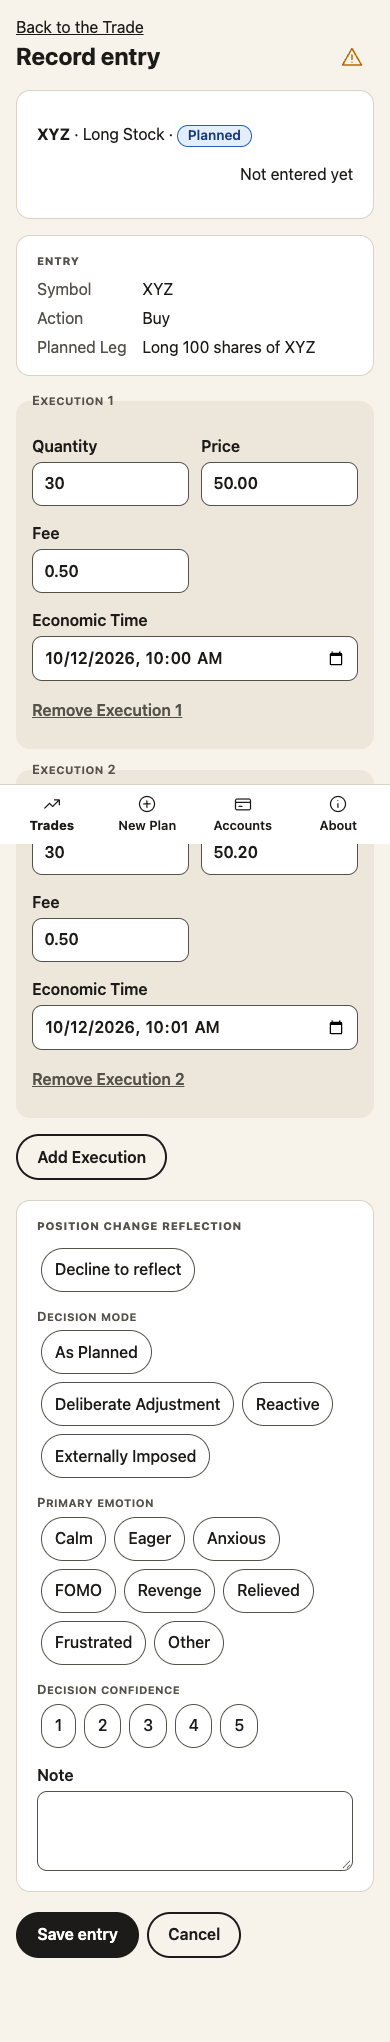
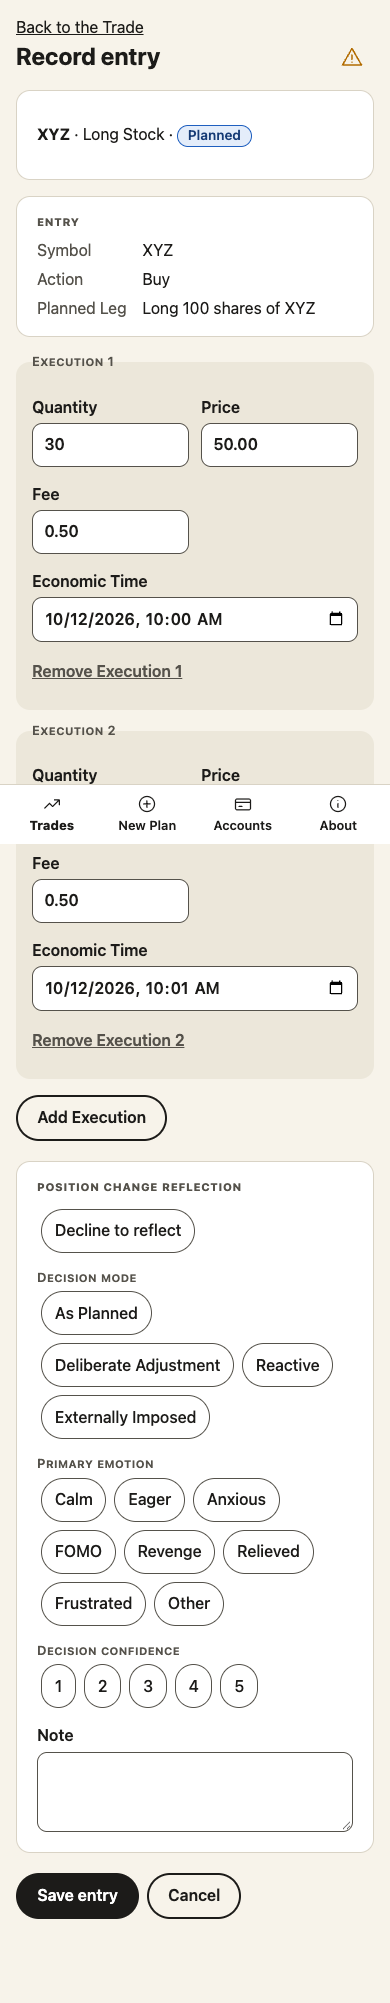
feat(ui): T2.63 Record entry context without "Not entered yet" and R lines below amounts
Claude-Session: https://claude.ai/code/session_0115bntoBTHkkC72fZTEU7bt

diff --git a/src/ui/screens/PositionChangeForm.test.tsx b/src/ui/screens/PositionChangeForm.test.tsx
@@ -316,9 +316,9 @@ describe('submission', () => {
     const entryQuality = within(receipt).getByRole('region', { name: 'Entry Quality' });
     expect(within(entryQuality).getAllByRole('definition').map((dd) => dd.textContent)).toEqual([
       '$50.18',
-      '$270.00 (1.08R)',
+      '$270.00 1.08R',
       '$580.00',
-      '2.15 (planned 2.4)',
+      '2.15 planned 2.4',
       '$18.00',
     ]);
     expect(within(receipt).getByText('Entry Size Deviation: 20 shares above plan, caused by this Position Change.')).toBeTruthy();
@@ -1111,18 +1111,20 @@ describe('Record entry issues', () => {
 });
 
 describe('entry context', () => {
-  it('should show the Trades symbol, Strategy, stored lifecycle, and 60 of 100 shares entered or Not entered yet above the form', async () => {
+  it('should show the Trades symbol, Strategy, and stored lifecycle above the form, and not show Not entered yet when nothing has been entered', async () => {
     const planned = renderForm();
     const context = await screen.findByRole('region', { name: 'Trade' });
     expect(within(context).getByText('XYZ')).toBeTruthy();
     expect(within(context).getByText('Long Stock')).toBeTruthy();
     expect(within(context).getByText('Planned')).toBeTruthy();
-    expect(within(context).getByText('Not entered yet')).toBeTruthy();
+    expect(within(context).queryByText('Not entered yet')).toBeNull();
+    expect(context.querySelectorAll('p').length).toBe(1);
     const form = screen.getByRole('group', { name: 'Execution 1' });
     expect(context.compareDocumentPosition(form) & Node.DOCUMENT_POSITION_FOLLOWING).toBeTruthy();
     expect(planned.TradeWorkflows.recordPositionChange).not.toHaveBeenCalled();
-    cleanup();
+  });
 
+  it('should still show 60 of 100 shares entered once some quantity is entered', async () => {
     const facade = positionChangeFormFacade();
     vi.mocked(facade.TradeViewsAndReporting.getTradeDetail).mockResolvedValue({
       kind: 'Ready',
@@ -1146,5 +1148,44 @@ describe('entry context', () => {
     await user.click(link);
     expect(await screen.findByText('Trade Detail route')).toBeTruthy();
     expect(facade.TradeWorkflows.recordPositionChange).not.toHaveBeenCalled();
+  });
+});
+
+describe('R lines', () => {
+  async function receiptEntryQuality() {
+    const facade = renderForm();
+    vi.mocked(facade.TradeWorkflows.recordPositionChange).mockResolvedValue(recordedResult());
+    const user = userEvent.setup();
+    await fillRows(user, [['20', '51.00', '1.00', '2026-10-12T14:00']]);
+    await completeReflection(user);
+    await user.click(screen.getByRole('button', { name: 'Save entry' }));
+    const receipt = await screen.findByRole('region', { name: 'Entry recorded' });
+    return within(receipt).getByRole('region', { name: 'Entry Quality' });
+  }
+  const valueOf = (region: HTMLElement, term: string) => within(region).getByText(term, { selector: 'dt' }).nextElementSibling as HTMLElement;
+
+  it('should put the R multiple on its own line below Actual initial risk on the receipt and in Entry Quality', async () => {
+    const value = valueOf(await receiptEntryQuality(), 'Actual initial risk');
+    const [amount, second] = Array.from(value.children) as HTMLElement[];
+    expect(amount!.textContent).toBe('$270.00');
+    expect(second!.textContent).toBe('1.08R');
+    expect(second!.className).toContain('second-line');
+    expect(value.textContent).not.toMatch(/[()]/);
+  });
+
+  it('should put planned 2.4 on its own line below the Reward : risk value on the receipt and in Entry Quality', async () => {
+    const value = valueOf(await receiptEntryQuality(), 'Reward : risk');
+    const [amount, second] = Array.from(value.children) as HTMLElement[];
+    expect(amount!.textContent).toBe('2.15');
+    expect(second!.textContent).toBe('planned 2.4');
+    expect(second!.className).toContain('second-line');
+    expect(value.textContent).not.toMatch(/[()]/);
+  });
+
+  it('should keep the amount and its second line in one value cell, read in order', async () => {
+    const quality = await receiptEntryQuality();
+    expect(valueOf(quality, 'Actual initial risk').textContent).toBe('$270.00 1.08R');
+    expect(valueOf(quality, 'Reward : risk').textContent).toBe('2.15 planned 2.4');
+    expect(within(quality).getAllByRole('definition')).toHaveLength(5);
   });
 });

diff --git a/src/ui/screens/TradeDetail.test.tsx b/src/ui/screens/TradeDetail.test.tsx
@@ -152,9 +152,9 @@ describe('Open Trade Detail', () => {
     });
     expect(termValue(quality, 'Resolved at')).toBe('Position Change at 2026-10-12 11:00');
     expect(termValue(quality, 'Average entry')).toBe('$50.18');
-    expect(termValue(quality, 'Actual initial risk')).toBe('$270.00 (1.08R)');
+    expect(termValue(quality, 'Actual initial risk')).toBe('$270.00 1.08R');
     expect(termValue(quality, 'Actual initial reward')).toBe('$580.00');
-    expect(termValue(quality, 'Reward : risk')).toBe('2.15 (planned 2.4)');
+    expect(termValue(quality, 'Reward : risk')).toBe('2.15 planned 2.4');
     expect(termValue(quality, 'Slippage')).toBe('$18.00');
     expect(termValue(quality, 'Size')).toBe('1× planned quantity');
     expect(within(quality).getByText('$50.18').className).toContain('number');
@@ -166,7 +166,7 @@ describe('Open Trade Detail', () => {
     const flagged = await screen.findByRole('region', {
       name: 'Entry Quality',
     });
-    expect(termValue(flagged, 'Reward : risk')).toBe('Not applicable: entry at or beyond the Stop (planned 2.4)');
+    expect(termValue(flagged, 'Reward : risk')).toBe('Not applicable: entry at or beyond the Stop planned 2.4');
   });
 
   it('should show Planned-Leg Fulfillment and each Entry Size Deviation with its quantity and causing Position Change', async () => {
@@ -659,5 +659,37 @@ describe('Journal entries', () => {
   it('should label the region with the number of items', async () => {
     renderView(openDetailOf([PC1, PC2], { journal: [planEntry, pc1Reflection, pc2Decline] }));
     expect(await screen.findByRole('region', { name: 'Journal (3)' })).toBeTruthy();
+  });
+});
+
+describe('R lines', () => {
+  async function detailEntryQuality() {
+    renderView(openDetailOf([PC1, PC2]));
+    return screen.findByRole('region', { name: 'Entry Quality' });
+  }
+  const valueOf = (region: HTMLElement, term: string) => within(region).getByText(term, { selector: 'dt' }).nextElementSibling as HTMLElement;
+
+  it('should put the R multiple on its own line below Actual initial risk on the receipt and in Entry Quality', async () => {
+    const value = valueOf(await detailEntryQuality(), 'Actual initial risk');
+    const [amount, second] = Array.from(value.children) as HTMLElement[];
+    expect(amount!.textContent).toBe('$270.00');
+    expect(second!.textContent).toBe('1.08R');
+    expect(second!.className).toContain('second-line');
+    expect(value.textContent).not.toMatch(/[()]/);
+  });
+
+  it('should put planned 2.4 on its own line below the Reward : risk value on the receipt and in Entry Quality', async () => {
+    const value = valueOf(await detailEntryQuality(), 'Reward : risk');
+    const [amount, second] = Array.from(value.children) as HTMLElement[];
+    expect(amount!.textContent).toBe('2.15');
+    expect(second!.textContent).toBe('planned 2.4');
+    expect(second!.className).toContain('second-line');
+    expect(value.textContent).not.toMatch(/[()]/);
+  });
+
+  it('should keep the amount and its second line in one value cell, read in order', async () => {
+    const quality = await detailEntryQuality();
+    expect(valueOf(quality, 'Actual initial risk').textContent).toBe('$270.00 1.08R');
+    expect(valueOf(quality, 'Reward : risk').textContent).toBe('2.15 planned 2.4');
   });
 });

diff --git a/src/ui/screens/TradeDetail.tsx b/src/ui/screens/TradeDetail.tsx
@@ -1,4 +1,4 @@
-import { useCallback, useEffect, useState } from 'react';
+import { useCallback, useEffect, useState, type ReactNode } from 'react';
 import { Link, useLocation, useParams } from 'react-router';
 import type { UiFacade } from '../../app/compose.ts';
 import type {
@@ -17,6 +17,7 @@ import type {
 import { Rational } from '../../domain/values/index.ts';
 import { PageTitle } from '../PageTitle.tsx';
 import { Badge } from '../Badge.tsx';
+import { WithSecondLine } from '../SecondLine.tsx';
 import { decimalMoney as price, localTime, money, netCost, quantity, ratio, rMultiple, tradeSummary } from '../format.ts';
 import { BackIcon, ChevronIcon } from '../icons.tsx';
 import { useRuntime } from '../runtime.tsx';
@@ -179,7 +180,7 @@ export function TradeDetail({ facade, timeZone }: TradeDetailProps) {
 }
 
 // One label and value in a figure grid; a row never grows wider than its cap (app.css).
-function Figure({ term, plain, tone, children }: { readonly term: string; readonly plain?: boolean; readonly tone?: 'stop' | 'target'; readonly children: string }) {
+function Figure({ term, plain, tone, children }: { readonly term: string; readonly plain?: boolean; readonly tone?: 'stop' | 'target'; readonly children: ReactNode }) {
   return (
     <div>
       <dt className={tone && `${tone}-label`}>{term}</dt>
@@ -633,9 +634,9 @@ function EntryQualitySection({ view, timeZone }: { readonly view: OpenTradeDetai
             {resolvedAt ? `Position Change at ${localTime(resolvedAt.economicTime, timeZone)}` : ''}
           </Figure>
           <Figure term="Average entry">{shown(quality.value.averageEntry, money)}</Figure>
-          <Figure term="Actual initial risk">{`${shown(quality.value.actualInitialRisk, money)} (${shown(quality.value.riskInPlanR, rMultiple)})`}</Figure>
+          <Figure term="Actual initial risk"><WithSecondLine amount={shown(quality.value.actualInitialRisk, money)} second={shown(quality.value.riskInPlanR, rMultiple)} /></Figure>
           <Figure term="Actual initial reward">{shown(quality.value.actualInitialReward, money)}</Figure>
-          <Figure term="Reward : risk">{`${shown(quality.value.actualRewardRisk, ratio)} (planned ${shown(quality.value.plannedRewardRisk, ratio)})`}</Figure>
+          <Figure term="Reward : risk"><WithSecondLine amount={shown(quality.value.actualRewardRisk, ratio)} second={`planned ${shown(quality.value.plannedRewardRisk, ratio)}`} /></Figure>
           <Figure term="Slippage">{shown(quality.value.slippage, money)}</Figure>
           <Figure term="Size">{`${shown(quality.value.sizeRatio, ratio)}× planned quantity`}</Figure>
         </dl>

diff --git a/e2e/d2/ui-alignment.spec.ts b/e2e/d2/ui-alignment.spec.ts
@@ -1664,3 +1664,47 @@ test.describe('T2.62 line breaks', () => {
     await context.close();
   });
 });
+
+test.describe('T2.63 R lines', () => {
+  async function expectSecondLinesBelow(entryQuality: Locator, page: Page, where: string, width: number): Promise<void> {
+    for (const [term, second] of [['Actual initial risk', '1.08R'], ['Reward : risk', 'planned 2.4']] as const) {
+      const value = entryQuality.locator('dt', { hasText: term }).locator('xpath=following-sibling::dd[1]');
+      const parts = await value.evaluate((dd) =>
+        Array.from(dd.children).map((el) => {
+          const box = el.getBoundingClientRect();
+          return { text: el.textContent ?? '', top: box.top, bottom: box.bottom };
+        }),
+      );
+      const [amount, line] = parts;
+      expect(line?.text, `${where} ${term} second line at ${width}`).toBe(second);
+      expect(line!.top, `${where} ${term} second line top at ${width}`).toBeGreaterThanOrEqual(amount!.bottom - 0.5);
+    }
+    expect(await page.evaluate(() => document.documentElement.scrollWidth - document.documentElement.clientWidth), `${where} overflow at ${width}`).toBeLessThanOrEqual(0);
+  }
+
+  test('should put the second line at or below the amount on the receipt and in Entry Quality at 320 and 1280', async ({ server, profile }) => {
+    void server;
+    const context = await profile.launch();
+    const page = await onboardedPage(context);
+    await confirmReference(page);
+    await recordEntry(page, PC1);
+    await backToTrade(page);
+    await recordEntry(page, PC2, { decline: true });
+    const receipt = page.getByRole('region', { name: 'Entry recorded', exact: true }).getByRole('region', { name: 'Entry Quality', exact: true });
+    await expect(receipt).toBeVisible(READY);
+    for (const width of [320, 1280]) {
+      await page.setViewportSize({ width, height: 900 });
+      await expectLayout(page, width);
+      await expectSecondLinesBelow(receipt, page, 'receipt', width);
+    }
+    await backToTrade(page);
+    const detail = page.getByRole('region', { name: 'Entry Quality', exact: true });
+    await expect(detail).toBeVisible(READY);
+    for (const width of [320, 1280]) {
+      await page.setViewportSize({ width, height: 900 });
+      await expectLayout(page, width);
+      await expectSecondLinesBelow(detail, page, 'Detail', width);
+    }
+    await context.close();
+  });
+});

diff --git a/src/ui/screens/PositionChangeReceipt.tsx b/src/ui/screens/PositionChangeReceipt.tsx
@@ -1,5 +1,6 @@
 import { useEffect, useRef } from 'react';
 import { PageTitle } from '../PageTitle.tsx';
+import { WithSecondLine } from '../SecondLine.tsx';
 import { Link } from 'react-router';
 import type { IntegrityFinding, PositionChangeResult } from '../../app/types.ts';
 import { decimalMoney as price, localTime, money, ratio, rMultiple } from '../format.ts';
@@ -84,11 +85,11 @@ export function PositionChangeReceipt({ result, timeZone }: PositionChangeReceip
             <dt>Average entry</dt>
             <dd className="number">{shown(figures.averageEntry, money)}</dd>
             <dt>Actual initial risk</dt>
-            <dd className="number">{`${shown(figures.actualInitialRisk, money)} (${shown(figures.riskInPlanR, rMultiple)})`}</dd>
+            <dd className="number"><WithSecondLine amount={shown(figures.actualInitialRisk, money)} second={shown(figures.riskInPlanR, rMultiple)} /></dd>
             <dt>Actual initial reward</dt>
             <dd className="number">{shown(figures.actualInitialReward, money)}</dd>
             <dt>Reward : risk</dt>
-            <dd className="number">{`${shown(figures.actualRewardRisk, ratio)} (planned ${shown(figures.plannedRewardRisk, ratio)})`}</dd>
+            <dd className="number"><WithSecondLine amount={shown(figures.actualRewardRisk, ratio)} second={`planned ${shown(figures.plannedRewardRisk, ratio)}`} /></dd>
             <dt>Slippage</dt>
             <dd className="number">{shown(figures.slippage, money)}</dd>
           </dl>

diff --git a/e2e/d2/offline.spec.ts b/e2e/d2/offline.spec.ts
@@ -31,7 +31,7 @@ test.describe('B2.8 offline cold restart', () => {
     await expect(page.getByRole('region', { name: /Read only/ })).toHaveCount(0);
     await recordEntry(page, PC2);
     await backToTrade(page);
-    await expect(region(page, 'Entry Quality')).toContainText('$270.00 (1.08R)');
+    await expect(region(page, 'Entry Quality')).toContainText('$270.00 1.08R');
     await offline.close();
 
     const again = await profile.launch({ offline: true });
@@ -42,7 +42,7 @@ test.describe('B2.8 offline cold restart', () => {
     await expect(region(reopened, 'Executions (3)').getByRole('button')).toHaveCount(3);
     await reopened.getByRole('button', { name: /^Buy 40 XYZ @ .* 11:00 details$/ }).click();
     await expect(region(reopened, 'Executions (3)')).toContainText('2026-10-12 11:00 · 1 Execution');
-    await expect(region(reopened, 'Entry Quality')).toContainText('$270.00 (1.08R)');
+    await expect(region(reopened, 'Entry Quality')).toContainText('$270.00 1.08R');
     await again.close();
   });
 });

diff --git a/src/ui/screens/PositionChangeForm.tsx b/src/ui/screens/PositionChangeForm.tsx
@@ -300,11 +300,9 @@ export function PositionChangeForm({ facade, timeZone, now, onDirtyChange }: Pos
         <p>
           <strong>{view.plan.underlying}</strong> · <span>{view.labels.strategy}</span> · <Badge tone="info">{view.lifecycle.stored}</Badge>
         </p>
-        <p className="number">
-          {'positions' in view
-            ? `${quantity(view.positions.reduce((total, p) => total.add(p.quantity), Rational.of(0n)))} of ${leg.quantity} shares entered`
-            : 'Not entered yet'}
-        </p>
+        {'positions' in view && (
+          <p className="number">{`${quantity(view.positions.reduce((total, p) => total.add(p.quantity), Rational.of(0n)))} of ${leg.quantity} shares entered`}</p>
+        )}
       </section>
       {conflict && (
         <section ref={conflictRef} tabIndex={-1} className="banner warning" aria-labelledby="entry-conflict-heading">

diff --git a/e2e/d2/open-position.spec.ts b/e2e/d2/open-position.spec.ts
@@ -74,9 +74,9 @@ test.describe('B2.2 scale-in and decline', () => {
     const quality = region(page, 'Entry Quality');
     await expect(quality).toContainText('Position Change at 2026-10-12 11:00');
     await expect(quality).toContainText('$50.18');
-    await expect(quality).toContainText('$270.00 (1.08R)');
+    await expect(quality).toContainText('$270.00 1.08R');
     await expect(quality).toContainText('$580.00');
-    await expect(quality).toContainText('2.15 (planned 2.4)');
+    await expect(quality).toContainText('2.15 planned 2.4');
     await expect(quality).toContainText('$18.00');
     await expect(region(page, 'Deviations')).toContainText(
       'Entry Size (Excess): 20 shares above plan, caused by the Position Change at 2026-10-12 14:00.',

diff --git a/src/ui/SecondLine.tsx b/src/ui/SecondLine.tsx
@@ -1,0 +1,9 @@
+// A figure's amount with its R multiple or planned comparison on its own muted line below. Both
+// parts stay in one value cell, in reading order ("$1,561.00 6.24R").
+export function WithSecondLine({ amount, second }: { readonly amount: string; readonly second: string }) {
+  return (
+    <>
+      <span>{amount}</span> <span className="second-line">{second}</span>
+    </>
+  );
+}

diff --git a/src/ui/app.css b/src/ui/app.css
@@ -566,6 +566,12 @@ dd {
   margin: 0;
 }
 
+/* A figure's R multiple or planned comparison: its own muted line below the amount. */
+.second-line {
+  display: block;
+  color: var(--muted);
+}
+
 /* About: a long capability name or time zone wraps inside its card rather than widening the page. */
 .about dd,
 .about li {

diff --git a/evidence/D02/tdd-log.md b/evidence/D02/tdd-log.md
@@ -820,3 +820,28 @@ Every `it should` case from D2's breakdown, section 4, run red and then green, o
 | T2.62-B1 | should keep the Underlying and Trade cells, with the second line and any badge, inside the scroll region at 320 | red | `npx playwright test e2e/d2/ui-alignment.spec.ts -g "inside the scroll region"` | 2 failed (320 only) | `Open Trade cell right edge at 320: Expected <= 304.5, Received 320`; the Records disagree badge case failed the same way (`Planned Trade cell right edge at 320`). 390 passes: 390 has room, so no defect there (not a mutation case). |
 | T2.62-B1 | (same, both cases at 320 and 390) | green | `npx playwright test e2e/d2/ui-alignment.spec.ts -g "T2.62\|T2.40"` | 16 passed | Trade `min-width` 12.5rem to 11.5rem (pin 6.5rem + 11.5rem = 288 px); build:faults rebuilt first. |
 | T2.62-B1 | should keep the UNDERLYING header inside its own cell on one line at 320 and 390 | note | `npx playwright test e2e/d2/ui-alignment.spec.ts -g "UNDERLYING header inside"` | First-run pass, flagged for the user | The header already fits (the pinned cell stays at the pin width, scrollWidth <= clientWidth); question b was not a real defect on this build. Mutation: pinned header `letter-spacing: 0.3em` and `font-size: 1.3rem` (after build:faults); failed `Open UNDERLYING scrollWidth at 320: Expected <= 104, Received 201` (also 390). Restored and rebuilt, passes. |
+| T2.63 | not show Not entered yet when nothing has been entered | red | `npx vitest run src/ui/screens/PositionChangeForm.test.tsx -t "not show Not entered yet when nothing has been entered"` | exit 1; Tests  1 failed, 40 skipped (41) | AssertionError: expected <p class="number"></p> to be null  |
+| T2.63 | not show Not entered yet when nothing has been entered | green | `npx vitest run src/ui/screens/PositionChangeForm.test.tsx -t "not show Not entered yet when nothing has been entered"` | exit 0; Tests  1 passed, 40 skipped (41) |  |
+| T2.63 | should still show 60 of 100 shares entered once some quantity is entered | red | `npx vitest run src/ui/screens/PositionChangeForm.test.tsx -t "should still show 60 of 100 shares entered once some quantity is entered"` | exit 0; Tests  1 passed, 40 skipped (41) |  |
+| T2.63 | should still show 60 of 100 shares entered once some quantity is entered | green | `npx vitest run src/ui/screens/PositionChangeForm.test.tsx -t "should still show 60 of 100 shares entered once some quantity is entered"` | exit 0; Tests  1 passed, 40 skipped (41) |  |
+| T2.63 | should still show 60 of 100 shares entered once some quantity is entered | green | `npx vitest run src/ui/screens/PositionChangeForm.test.tsx -t "should still show 60 of 100 shares entered once some quantity is entered"` | exit 0; Tests  1 passed, 40 skipped (41) |  |
+| T2.63 | should still show 60 of 100 shares entered once some quantity is entered | green | `npx vitest run src/ui/screens/PositionChangeForm.test.tsx -t "should still show 60 of 100 shares entered once some quantity is entered"` | exit 0; Tests  1 passed, 40 skipped (41) |  |
+| T2.63 | should still show 60 of 100 shares entered once some quantity is entered | note | `npx vitest run src/ui/screens/PositionChangeForm.test.tsx -t "should still show 60 of 100 shares entered once some quantity is entered"` | First-run pass, flagged for the user | Built by T2.52 (the Open branch of the context card). Mutation: the text became "shares entered!"; failed `Unable to find an element with the text: 60 of 100 shares entered`. Restored; green. The T2.52 case was split in two, and its "Not entered yet" assertion became the not-shown assertion. |
+| T2.63 | should put the R multiple on its own line below Actual initial risk on the receipt and in Entry Quality | red | `npx vitest run src/ui/screens/PositionChangeForm.test.tsx -t "should put the R multiple on its own line below Actual initial risk on the receipt and in Entry Quality"` | exit 1; Tests  1 failed, 43 skipped (44) | TypeError: Cannot read properties of undefined (reading 'textContent')  |
+| T2.63 | should put the R multiple on its own line below Actual initial risk on the receipt and in Entry Quality | green | `npx vitest run src/ui/screens/PositionChangeForm.test.tsx -t "should put the R multiple on its own line below Actual initial risk on the receipt and in Entry Quality"` | exit 0; Tests  1 passed, 43 skipped (44) |  |
+| T2.63 | should put planned 2.4 on its own line below the Reward : risk value on the receipt and in Entry Quality | green | `npx vitest run src/ui/screens/PositionChangeForm.test.tsx -t "should put planned 2.4 on its own line below the Reward : risk value on the receipt and in Entry Quality"` | exit 0; Tests  1 passed, 43 skipped (44) |  |
+| T2.63 | should keep the amount and its second line in one value cell, read in order | green | `npx vitest run src/ui/screens/PositionChangeForm.test.tsx -t "should keep the amount and its second line in one value cell, read in order"` | exit 0; Tests  1 passed, 43 skipped (44) |  |
+| T2.63 | should put planned 2.4 on its own line below the Reward : risk value on the receipt and in Entry Quality | red | `npx vitest run src/ui/screens/PositionChangeForm.test.tsx -t "should put planned 2.4 on its own line below the Reward : risk value on the receipt and in Entry Quality"` | exit 1; Tests  1 failed, 43 skipped (44) | TypeError: Cannot read properties of undefined (reading 'textContent')  |
+| T2.63 | should keep the amount and its second line in one value cell, read in order | red | `npx vitest run src/ui/screens/PositionChangeForm.test.tsx -t "should keep the amount and its second line in one value cell, read in order"` | exit 1; Tests  1 failed, 43 skipped (44) | AssertionError: expected '2.15 (planned 2.4)' to be '2.15 planned 2.4' // Object.is equality Expected: "2.15 planned 2.4"  |
+| T2.63 | should put planned 2.4 on its own line below the Reward : risk value on the receipt and in Entry Quality | green | `npx vitest run src/ui/screens/PositionChangeForm.test.tsx -t "should put planned 2.4 on its own line below the Reward : risk value on the receipt and in Entry Quality"` | exit 0; Tests  1 passed, 43 skipped (44) |  |
+| T2.63 | should keep the amount and its second line in one value cell, read in order | green | `npx vitest run src/ui/screens/PositionChangeForm.test.tsx -t "should keep the amount and its second line in one value cell, read in order"` | exit 0; Tests  1 passed, 43 skipped (44) |  |
+| T2.63 | should put the R multiple on its own line below Actual initial risk on the receipt and in Entry Quality | red | `npx vitest run src/ui/screens/TradeDetail.test.tsx -t "should put the R multiple on its own line below Actual initial risk on the receipt and in Entry Quality"` | exit 1; Tests  1 failed, 38 skipped (39) | TypeError: Cannot read properties of undefined (reading 'textContent')  |
+| T2.63 | should put planned 2.4 on its own line below the Reward : risk value on the receipt and in Entry Quality | red | `npx vitest run src/ui/screens/TradeDetail.test.tsx -t "should put planned 2.4 on its own line below the Reward : risk value on the receipt and in Entry Quality"` | exit 1; Tests  1 failed, 38 skipped (39) | TypeError: Cannot read properties of undefined (reading 'textContent')  |
+| T2.63 | should keep the amount and its second line in one value cell, read in order | red | `npx vitest run src/ui/screens/TradeDetail.test.tsx -t "should keep the amount and its second line in one value cell, read in order"` | exit 1; Tests  1 failed, 38 skipped (39) | AssertionError: expected '$270.00 (1.08R)' to be '$270.00 1.08R' // Object.is equality Expected: "$270.00 1.08R"  |
+| T2.63 | should put the R multiple on its own line below Actual initial risk on the receipt and in Entry Quality | green | `npx vitest run src/ui/screens/TradeDetail.test.tsx -t "should put the R multiple on its own line below Actual initial risk on the receipt and in Entry Quality"` | exit 0; Tests  1 passed, 38 skipped (39) |  |
+| T2.63 | should put planned 2.4 on its own line below the Reward : risk value on the receipt and in Entry Quality | green | `npx vitest run src/ui/screens/TradeDetail.test.tsx -t "should put planned 2.4 on its own line below the Reward : risk value on the receipt and in Entry Quality"` | exit 0; Tests  1 passed, 38 skipped (39) |  |
+| T2.63 | should keep the amount and its second line in one value cell, read in order | green | `npx vitest run src/ui/screens/TradeDetail.test.tsx -t "should keep the amount and its second line in one value cell, read in order"` | exit 0; Tests  1 passed, 38 skipped (39) |  |
+| T2.63 | R lines, Detail halves (3 cases in TradeDetail.test.tsx) | note | `.claude/scripts/tdd.sh` | Production for the Detail was written together with the receipt (shared WithSecondLine); to get genuine reds the Detail lines were reverted to the bracketed text, reds recorded, then restored. Receipt cases 2 and 3 likewise were reverted and reddened. Existing assertions changed: PositionChangeForm.test (receipt dds), TradeDetail.test (Entry Quality values and the Not applicable text), offline.spec and open-position.spec. |
+| T2.63 | should put the second line at or below the amount on the receipt and in Entry Quality at 320 and 1280 | red | `npx playwright test e2e/d2/ui-alignment.spec.ts -g "T2.63"` | 1 failed | Playwright, logged by hand. The build already had the structure, so the red is by mutation: `.second-line` set to `display: inline` (after build:faults). Failed `receipt Reward : risk second line top at 320: Expected >= 385.21875, Received 367.71875`. |
+| T2.63 | (same) | green | `npx playwright test e2e/d2/ui-alignment.spec.ts -g "T2.63"` | 1 passed | Restored `display: block`; build:faults rebuilt first. |
+| T2.63 | (module cases) | refactor | `npx vitest run src/ui` | Reviewed: one shared WithSecondLine (src/ui/SecondLine.tsx) serves receipt and Detail; Figure children widened to ReactNode. No other changes. Test names rephrased: none; the entry-context T2.52 case was split in two. Extra assertions: no brackets in the value text; exactly one paragraph in the context card when nothing is entered. |
